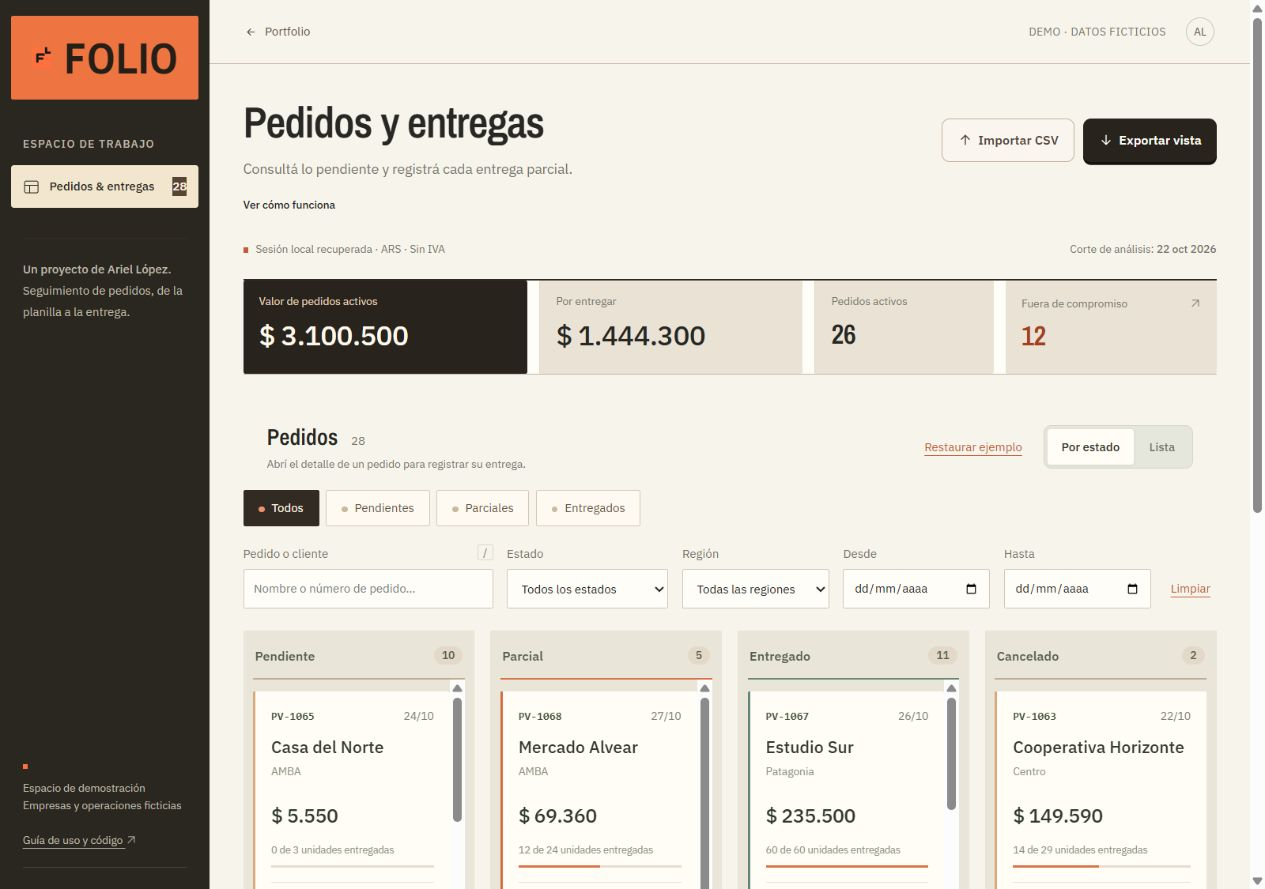
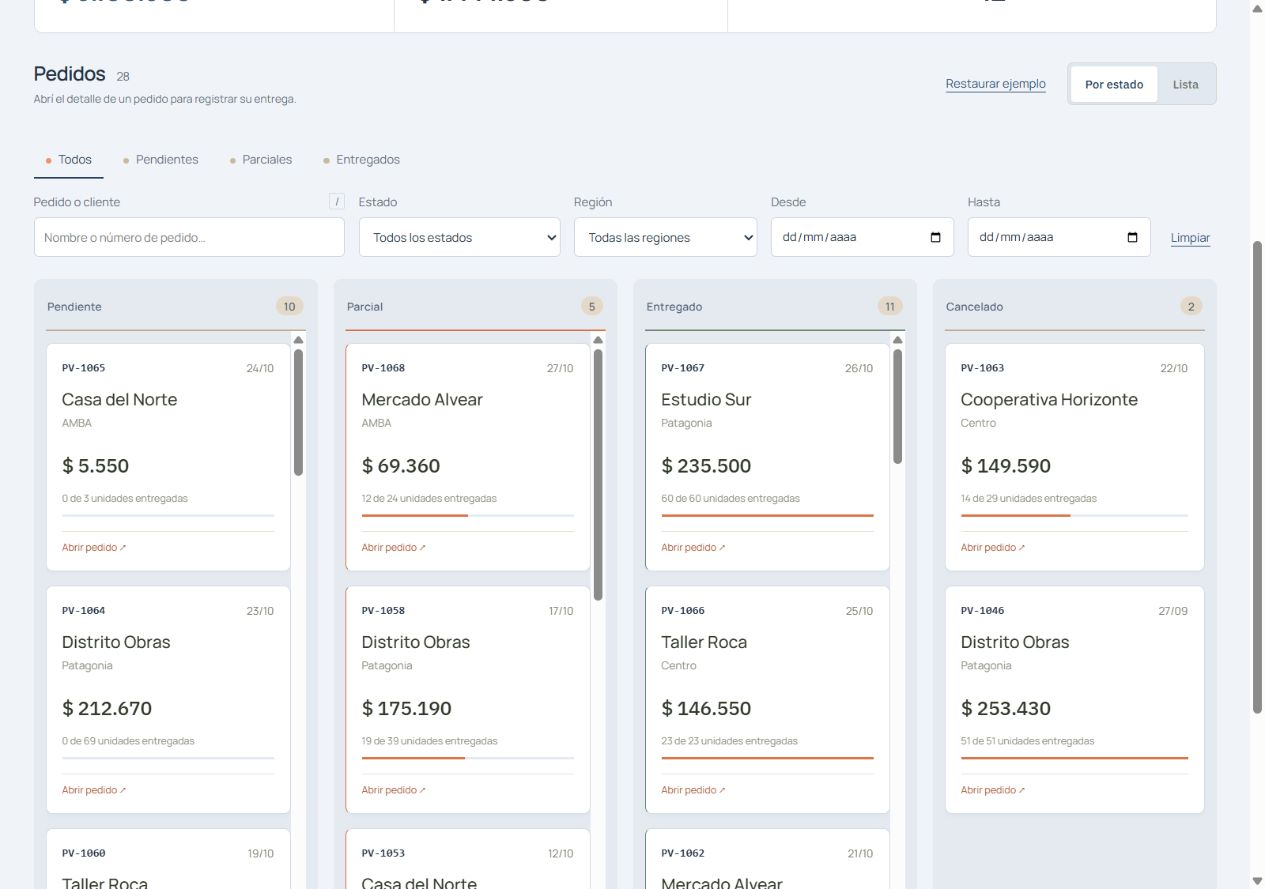
Rebuild Folio as a wide dispatch workspace (#23)

diff --git a/interface.css b/interface.css
@@ -1,0 +1,304 @@
+/* Folio is a shared dispatch table, with navigation above the work. */
+:root {
+  --ui: Manrope, Arial, sans-serif;
+  --display: Manrope, Arial, sans-serif;
+  --ink: #263448;
+  --muted: #657084;
+  --line: #d4dbe4;
+  --accent: #31537b;
+  --paper: #f0f3f7;
+}
+body {
+  font:
+    14px/1.55 Manrope,
+    Arial,
+    sans-serif;
+  background: #f0f3f7;
+  color: #263448;
+}
+body h1,
+body h2,
+body h3,
+body h4,
+body button,
+body input,
+body select {
+  font-family: Manrope, Arial, sans-serif;
+}
+.sidebar {
+  position: relative;
+  inset: auto;
+  width: 100%;
+  height: auto;
+  min-height: 0;
+  display: flex;
+  flex-direction: row;
+  align-items: center;
+  gap: 26px;
+  padding: 16px 32px;
+  background: #253d60;
+  color: #f5f7fa;
+  border: 0;
+}
+.sidebar .logo {
+  margin: 0;
+  padding: 0;
+  background: transparent;
+  font:
+    800 32px/1 Manrope,
+    Arial,
+    sans-serif;
+  color: #fff;
+  letter-spacing: -0.07em;
+  text-transform: lowercase;
+}
+.sidebar .desk-mark {
+  background: #f39467;
+  border-radius: 6px;
+  padding: 3px;
+}
+.sidebar .sidebar-label,
+.sidebar .project-attribution,
+.sidebar .side-bottom {
+  display: none;
+}
+.sidebar .nav {
+  margin: 0;
+  width: auto;
+  padding: 9px 14px;
+  border-radius: 6px;
+  font-size: 12px;
+}
+.sidebar .nav.active {
+  color: #fff;
+  background: #ffffff18;
+  border: 1px solid #ffffff24;
+}
+.sidebar .nav i {
+  background: #ffffff22;
+  color: #fff;
+}
+.workspace {
+  margin: 0;
+  width: 100%;
+}
+.topbar {
+  min-height: 44px;
+  padding: 10px 32px;
+  background: #f0f3f7;
+  border-bottom: 1px solid #d4dbe4;
+}
+main {
+  max-width: 1500px;
+  margin: 0 auto;
+  padding: 22px 32px 50px;
+}
+.page-head {
+  padding: 16px 0 22px;
+}
+.page-head h1 {
+  font:
+    750 31px/1.2 Manrope,
+    Arial,
+    sans-serif;
+  text-transform: none;
+  letter-spacing: -0.055em;
+}
+.page-head p {
+  color: #657084;
+  font-size: 13px;
+  margin-top: 9px;
+}
+.button {
+  border-radius: 6px;
+  border-color: #cbd4e0;
+  color: #2d4463;
+  background: #fff;
+  box-shadow: 0 1px 2px #15274210;
+}
+.button.primary {
+  background: #253d60;
+  border-color: #253d60;
+  color: #fff;
+  box-shadow: 0 2px 0 #152742;
+}
+.metrics {
+  background: #fff;
+  border: 1px solid #d4dbe4;
+  border-radius: 9px;
+  overflow: hidden;
+}
+.metrics article,
+.metrics > button {
+  background: #fff;
+  padding: 16px 22px;
+  border-color: #d4dbe4;
+}
+.metrics article:first-child {
+  background: #fff;
+  color: #263448;
+}
+.metrics p {
+  color: #657084;
+}
+.metrics strong,
+.metrics .metric-value strong {
+  font:
+    700 27px/1.3 Manrope,
+    Arial,
+    sans-serif;
+  color: #263448;
+  letter-spacing: -0.045em;
+}
+.metrics article:first-child strong {
+  color: #31537b;
+}
+.orders-panel {
+  margin-top: 28px;
+  background: transparent;
+  border: 0;
+  padding: 0;
+}
+.orders-heading {
+  padding: 0 0 18px;
+}
+.orders-heading h2 {
+  font-size: 20px;
+  letter-spacing: -0.03em;
+}
+.filters {
+  border: 0;
+  background: transparent;
+  padding: 0;
+  margin: 15px 0 22px;
+}
+.filters input,
+.filters select {
+  background: #fff;
+  border: 1px solid #cbd4e0;
+  border-radius: 5px;
+}
+.status-shortcuts {
+  gap: 8px;
+}
+.status-shortcuts button {
+  background: transparent;
+  border: 0;
+  border-radius: 0;
+  color: #5f6d7e;
+  padding: 8px 12px;
+  border-bottom: 2px solid transparent;
+  box-shadow: none;
+}
+.status-shortcuts button[aria-pressed='true'] {
+  background: transparent;
+  color: #253d60;
+  border-color: #253d60;
+}
+.board-column {
+  background: #e5eaf1;
+  padding: 12px;
+  border: 0;
+  border-radius: 8px;
+}
+.board-column > h3 {
+  color: #4f5f73;
+  font-size: 11px;
+  letter-spacing: 0.02em;
+}
+.order-card {
+  background: #fff;
+  border: 1px solid #d4dbe4;
+  border-radius: 7px;
+  box-shadow: 0 2px 3px #20395108;
+  padding: 16px;
+}
+.order-card:hover {
+  border-color: #6e8dab;
+  box-shadow: 0 5px 12px #20395118;
+}
+.order-card strong {
+  font-weight: 750;
+  color: #263448;
+}
+.order-card b {
+  font:
+    700 20px Manrope,
+    Arial,
+    sans-serif;
+}
+.order-track {
+  background: #e5eaf1;
+}
+.order-track > span {
+  background: #7695ad;
+}
+.state-parcial .order-track > span {
+  background: #df906b;
+}
+.state-entregado .order-track > span {
+  background: #75a398;
+}
+#detail {
+  background: #f9fbfd;
+  color: #263448;
+  border-left: 1px solid #cbd4e0;
+}
+.detail-line {
+  background: #eaf0f6;
+  border-color: #cbd4e0;
+  border-radius: 7px;
+}
+.delivery-shortcuts button {
+  border-radius: 4px;
+}
+.view-switch {
+  border-radius: 6px;
+  background: #e2e8f0;
+}
+.view-switch button[aria-pressed='true'] {
+  background: #fff;
+  color: #253d60;
+}
+@media (max-width: 680px) {
+  .sidebar {
+    padding: 14px 20px;
+    gap: 18px;
+  }
+  .sidebar .logo {
+    font-size: 28px;
+  }
+  .sidebar .nav {
+    font-size: 10px;
+    padding: 7px 9px;
+  }
+  .sidebar .nav svg {
+    display: none;
+  }
+  .topbar {
+    padding: 10px 20px;
+  }
+  main {
+    padding: 15px 20px 40px;
+  }
+  .page-head h1 {
+    font-size: 27px;
+  }
+  .metrics article,
+  .metrics > button {
+    padding: 12px;
+  }
+  .metrics strong,
+  .metrics .metric-value strong {
+    font-size: 22px;
+  }
+}
+
+.metrics article:first-child p {
+  color: #657084;
+}
+.orders-panel h2,
+.board-column h3,
+#detail h2 {
+  font-family: Manrope, Arial, sans-serif;
+}

diff --git a/index.html b/index.html
@@ -19,15 +19,16 @@
     <link rel="stylesheet" href="style.css?v=20261101-type-1" />
     <link rel="stylesheet" href="tutorial.css?v=20261101-type-1" />
     <link rel="stylesheet" href="identity.css?v=20261101-type-1" />
-    <script type="module" src="src/app.js?v=20261101-editorial-1"></script>
+    <script type="module" src="src/app.js?v=20261101-carousel-1"></script>
     <script type="module" src="src/tutorial.js?v=20261101-type-1"></script>
-    <link rel="stylesheet" href="direction.css?v=20261101-editorial-1" />
+    <link rel="stylesheet" href="direction.css?v=20261101-carousel-1" />
     <link rel="stylesheet" href="video.css?v=20261101-type-1" />
-    <script type="module" src="src/brand-motion.js?v=20261101-editorial-1"></script>
-    <link rel="stylesheet" href="brand-lab.css?v=20261101-editorial-1" />
-    <script type="module" src="src/brand-lab.js?v=20261101-editorial-1"></script>
-    <link rel="stylesheet" href="workspace.css?v=20261101-editorial-1" />
-    <link rel="stylesheet" href="product.css?v=20261101-editorial-1" />
+    <script type="module" src="src/brand-motion.js?v=20261101-carousel-1"></script>
+    <link rel="stylesheet" href="brand-lab.css?v=20261101-carousel-1" />
+    <script type="module" src="src/brand-lab.js?v=20261101-carousel-1"></script>
+    <link rel="stylesheet" href="workspace.css?v=20261101-carousel-1" />
+    <link rel="stylesheet" href="product.css?v=20261101-carousel-1" />
+    <link rel="stylesheet" href="interface.css?v=20261101-carousel-1" />
   </head>
   <body>
     <a class="skip" href="#main">Saltar al contenido</a>

diff --git a/README.md b/README.md
@@ -219,3 +219,5 @@ La marca y los títulos usan Archivo Narrow (Omnibus-Type), con licencia OFL loc
 Los filtros rápidos Todos/Pendientes/Parciales/Entregados usan el mismo filtro de estado que el selector y sincronizan aria-pressed. En la ficha, +1, +6 y Completar preparan la cantidad; no persisten nada hasta Guardar entrega. Respetan el máximo del material y se omiten en pedidos cancelados. El borrador anuncia unidades entregadas y pendientes. Tarjetas y controles tienen profundidad discreta, estados de foco y respuesta al pulsar.
 
 Validación local: 26 pruebas, filtro Parciales (5), preparación 12 → 18 → 24 sin sobreentrega, guardado de 18 y restauración de 12. Revisión móvil de la ficha y controles.
+
+La revisión del carrusel usa interface.css: navegación superior, tablero ancho, sans Manrope y acentos azules con marca naranja. Conserva filtros, detalle y registro de entregas. Revisión local en escritorio y móvil sin modificar datos de ejemplo.
